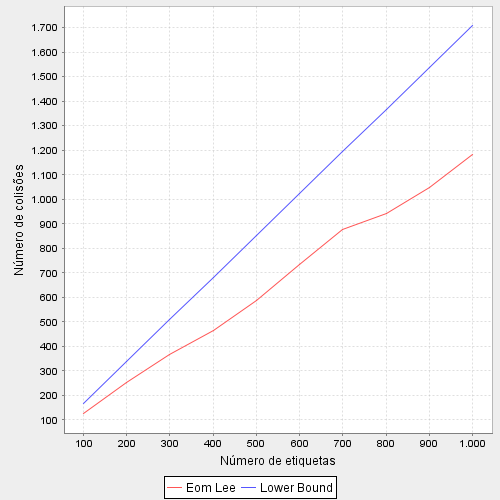
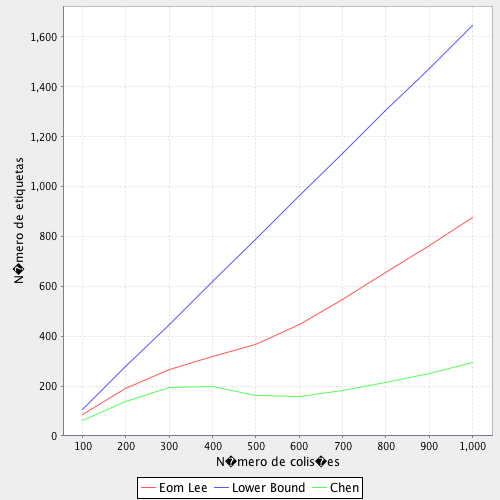
Gerando os tres graficos do QT e do QwT

diff --git a/index/dfsa.html b/index/dfsa.html
@@ -1,10 +1,11 @@
 <html>
 <head>
 <title>DFSA</title>
+<charset META="utf-8" />
 </head>
 <body bgcolor="#EEEEEE">
 <h1>DFSA</h1>
-<h2>Slots com colisao</h2>
+<h2>Slots com colis�o</h2>
 <img src="dfsa/slots-colisao.png" />
 <img src="dfsa/artigo/slots-colisao.png" />
 <h2>Slots vazios</h2><img src="dfsa/slots-vazios.png" />
@@ -12,12 +13,6 @@
 <h2>Total de slots</h2>
 <img src="dfsa/total-slots.png" />
 <img src="dfsa/artigo/total-slots.png" />
-<h2>Tempo para identificacao</h2>
-<img src="dfsa/tempo-identificacao.png" />
-<img src="dfsa/artigo/tempo-identificacao.png" />
-<h2>Erro absoluto médio de estimacao</h2>
-<img src="dfsa/erro-medio.png" />
-<img src="dfsa/artigo/erro-medio.png" />
 </body>
 </html>
 

diff --git a/index/tree.html b/index/tree.html
@@ -1,0 +1,18 @@
+<html>
+<head>
+<title>QT e QwT</title>
+<meta charset="utf-8" />
+</head>
+<body bgcolor="#EEEEEE">
+<h1>QT e QwT</h1>
+<h2>Bits transmitidos Leitor->Tag</h2>
+<img src="tree/bits-tag-leitor.png" />
+<img src="tree/artigo/bits-tag-leitor.png" />
+<h2>Bits Transmitidos Tag->Leitor</h2><img src="tree/bits-leitor-tag.png" />
+<img src="tree/artigo/bits-leitor-tag.png" />
+<h2>Número de passos</h2>
+<img src="tree/iteracoes.png" />
+<img src="tree/artigo/iteracoes.png" />
+</body>
+</html>
+

diff --git a/src/charts/LineChartTree.java b/src/charts/LineChartTree.java
@@ -20,13 +20,12 @@ public class LineChartTree {
 	private Chart chart;
 
 	public LineChartTree (Chart chart){
-
 		this.chart = chart;
 	}
 
 	public void create () throws IOException{
 
-		JFreeChart jChart = ChartFactory.createXYLineChart("", chart.getAxisY(), chart.getAxisX(), createDataset(), PlotOrientation.HORIZONTAL, true, false, false);
+		JFreeChart jChart = ChartFactory.createXYLineChart("", chart.getAxisY(), chart.getAxisX(), createDataset(), PlotOrientation.VERTICAL, true, false, false);
 
 		XYPlot xyPlot = (XYPlot) jChart.getPlot();
 		xyPlot.setDomainCrosshairVisible(true);
@@ -35,7 +34,7 @@ public class LineChartTree {
 		NumberAxis yAxis = (NumberAxis) xyPlot.getRangeAxis();
 		yAxis.setAutoRangeIncludesZero(false);
 
-		OutputStream image = new FileOutputStream(chart.getTitle() + ".png");
+		OutputStream image = new FileOutputStream("index/tree/" + chart.getTitle() + ".png");
 		ChartUtilities.writeChartAsPNG(image, jChart, 500, 500);
 		image.close();
 	}
@@ -49,8 +48,8 @@ public class LineChartTree {
 		int n = 100;
 
 		for(int i = 0; i<chart.getData().length; i++){
-			serie1.add(chart.getData()[i][0], n);
-			serie2.add(chart.getData()[i][1], n);
+			serie1.add(n, chart.getData()[i][0]);
+			serie2.add(n, chart.getData()[i][1]);
 			n += 100;
 		}
 

diff --git a/src/tree/QwT.java b/src/tree/QwT.java
@@ -4,12 +4,16 @@ import java.util.Stack;
 
 public class QwT implements TreeAlgorithm{
 
-	int totalBits = 0;
+	int totalBitsTag = 0;
+	int totalBitsReader = 0;
 	int totalIterations = 0;
+	int tagsNum = 0;
 	String tagID = "";
 	
 		
 	public void run(Tag[] tags){
+		
+		this.tagsNum = tags.length;
 		
 		String prefix;
 		String lastPrefix = "";
@@ -38,7 +42,8 @@ public class QwT implements TreeAlgorithm{
 			lastPrefix = prefix;
 			
 			totalIterations += 1;
-			totalBits += prefix.length() + (answers * windowSize);
+			totalBitsReader += prefix.length();
+			totalBitsTag += answers * windowSize;
 		}
 		
 	}
@@ -76,8 +81,12 @@ public class QwT implements TreeAlgorithm{
 		return window;
 	}
 	
-	public int getTotalBits(){
-		return this.totalBits;
+	public int getTotalBitsTag(){
+		return this.totalBitsTag/tagsNum;
+	}
+	
+	public int getTotalBitsReader(){
+		return this.totalBitsReader;
 	}
 	
 	public int getTotalIterations(){

diff --git a/src/tree/QT.java b/src/tree/QT.java
@@ -5,11 +5,14 @@ import java.util.Queue;
 
 public class QT implements TreeAlgorithm{
 	
-	int totalBits = 0;
+	int tagsNum = 0;
+	int totalBitsTag = 0;
+	int totalBitsReader = 0;
 	int totalIterations = 0;
-	
 		
 	public void run(Tag[] tags){
+		
+		this.tagsNum = tags.length;
 		
 		String prefix;
 		Queue<String> prefixes = new LinkedList<String>();
@@ -29,8 +32,8 @@ public class QT implements TreeAlgorithm{
 			}
 			
 			totalIterations += 1;
-			totalBits += prefix.length() + (answers * 96);
-			
+			totalBitsReader += prefix.length();
+			totalBitsTag += answers * 96;	
 		}
 		
 	}
@@ -47,8 +50,12 @@ public class QT implements TreeAlgorithm{
 		return answers;
 	}
 	
-	public int getTotalBits(){
-		return this.totalBits;
+	public int getTotalBitsTag(){
+		return this.totalBitsTag/this.tagsNum;
+	}
+	
+	public int getTotalBitsReader(){
+		return this.totalBitsReader;
 	}
 	
 	public int getTotalIterations(){

diff --git a/src/tree/SimpleMain.java b/src/tree/SimpleMain.java
@@ -1,0 +1,16 @@
+package tree;
+
+public class SimpleMain {
+	public static void main(String[] args){
+		TagLoader loader = new TagLoader();
+		
+		Tag[] tags = loader.load(100);
+//		TreeAlgorithm tree = new QT();
+		TreeAlgorithm tree = new QwT();
+		
+		tree.run(tags);
+		System.out.println("Total de bits transmitidos Tag->Leitor: "+tree.getTotalBitsTag());
+		System.out.println("Total de bits transmitidos Leitor->Tag: "+tree.getTotalBitsReader());
+		System.out.println("Total de iterações: "+tree.getTotalIterations());
+	}
+}

diff --git a/src/tree/TreeAlgorithm.java b/src/tree/TreeAlgorithm.java
@@ -4,7 +4,9 @@ public interface TreeAlgorithm {
 
 	public void run(Tag[] tags);
 	
-	public int getTotalBits();
+	public int getTotalBitsTag();
+	
+	public int getTotalBitsReader();
 	
 	public int getTotalIterations();
 	
